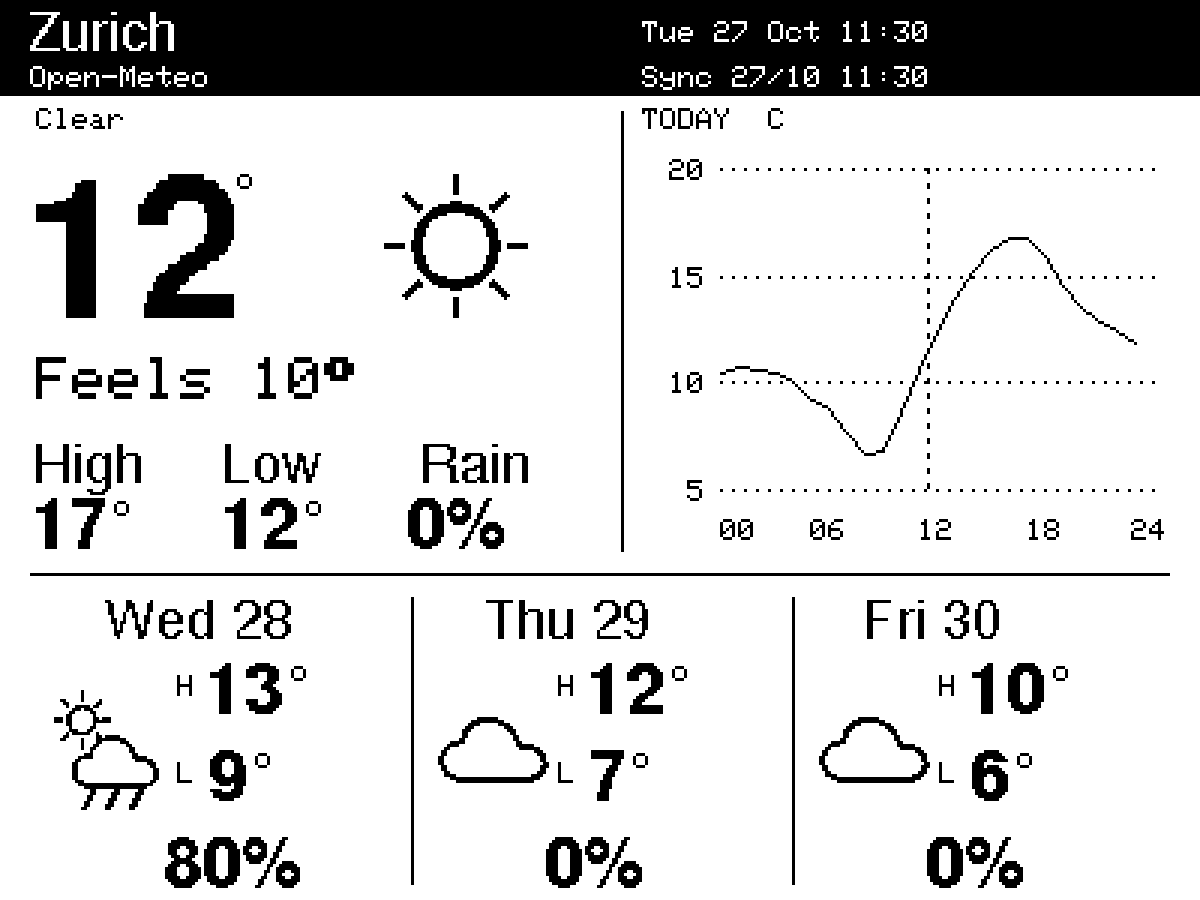
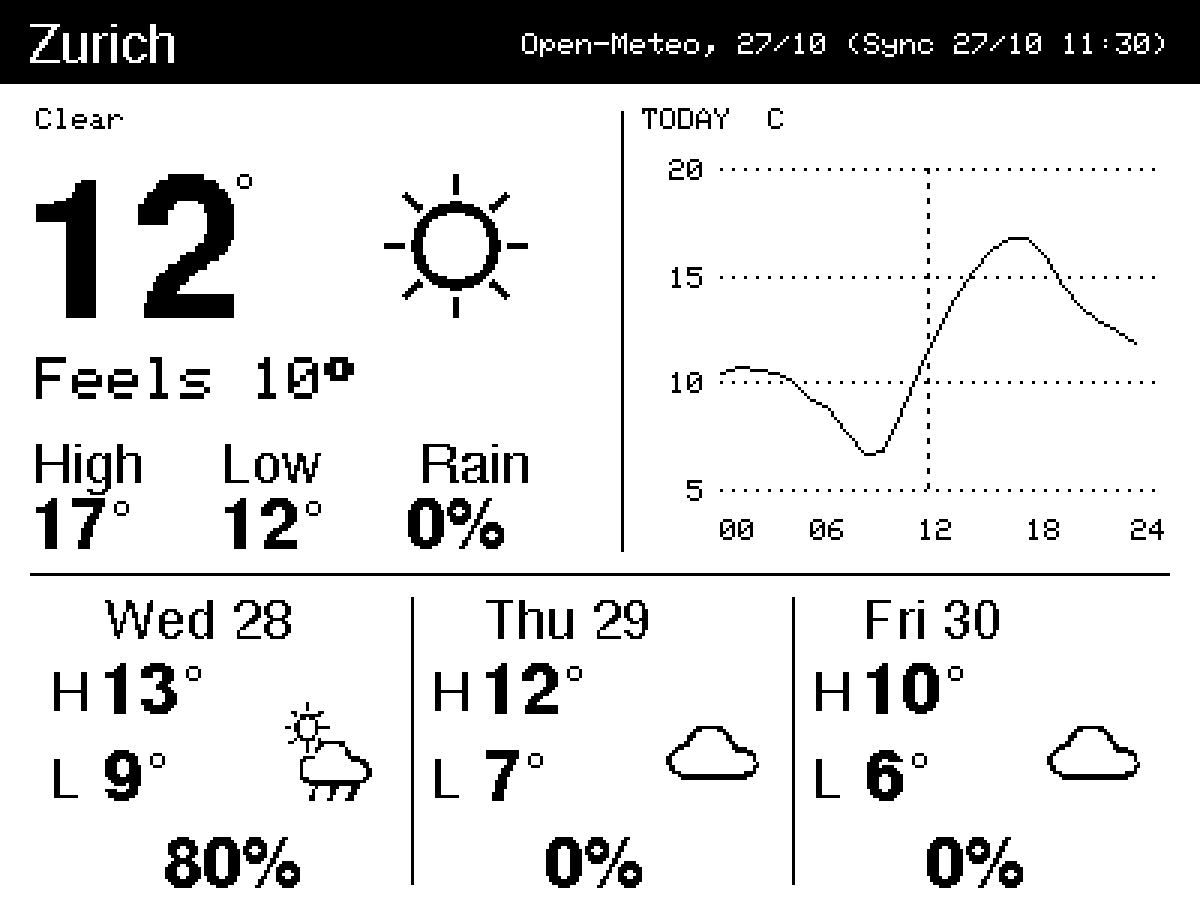
Apply approved Large three option B and single-line header
Place enlarged H/L labels and forecast temperatures left, with weather icons right. Show location left and provider/current date/successful sync date-time right in one header line, without the current clock. Preserve update/stale/error feedback beneath Feels.

Update requirements, user stories and actual-renderer previews. Green firmware build and native checks pass; long location, error status, negative temperature and 100% rain renders reviewed.

diff --git a/src/screen.cpp b/src/screen.cpp
@@ -221,17 +221,20 @@ void Screen::largeValue(int x, int y, float n, bool degree) {
     frame.drawCircle(x + width + 5, y + 3, 2, 1);
 }
 void Screen::largeHome(const Config &c, const Weather &w, const UI &ui, int64_t now) {
-  // Two header rows replace the footer; last sync changes only after success.
-  frame.fillRect(0, 0, 400, 32, 1);
-  readable(10, 4, c.label, false, true, 165);
-  text(214, 7, localTime(now, "%a %d %b %H:%M"), 1, true, 181);
+  // One header line: location left, provider/date and successful sync right.
+  frame.fillRect(0, 0, 400, 28, 1);
+  const std::string info = "Open-Meteo, " + localTime(now, "%d/%m") + " (Sync " +
+                           localTime(w.fetched, "%d/%m %H:%M") + ")";
+  const int infoX = 390 - int(info.size()) * 6;
+  readable(10, 8, c.label, false, true, infoX - 22);
+  text(infoX, 11, info, 1, true, 390 - infoX);
   std::string status = ui.busy ? "Updating" : ui.message;
   if (status.empty() && now - w.fetched > 2 * Hour)
     status = "STALE";
-  text(10, 22, status.empty() ? "Open-Meteo" : status, 1, true, 180);
-  text(214, 22, "Sync " + localTime(w.fetched, "%d/%m %H:%M"), 1, true, 181);
   hero(w);
   text(12, 119, "Feels " + value(w.feels, true), 2, false, 126);
+  if (!status.empty())
+    text(12, 137, status, 1, false, 186);
   auto day = today(w, now);
   readable(12, 148, "High");
   readable(75, 148, "Low");
@@ -259,11 +262,17 @@ void Screen::largeHome(const Config &c, const Weather &w, const UI &ui, int64_t 
     const auto label = localTime(mktime(&date), "%a %d");
     readable(x + 25, 200, label, false, false, 100);
     auto asset = findIcon(weatherIcon(d.code));
-    frame.drawBitmap(x + 3, 228, asset->largeForecast, 48, 48, 1);
-    text(x + 49, 225, "H");
-    largeValue(x + 60, 221, d.high, true);
-    text(x + 49, 254, "L");
-    largeValue(x + 60, 250, d.low, true);
+    // Option B: temperatures on the left, condition icon on the right.
+    for (int yy = 0; yy < 40; ++yy)
+      for (int xx = 0; xx < 40; ++xx) {
+        int sx = xx * 48 / 40, sy = yy * 48 / 40;
+        if (pgm_read_byte(asset->largeForecast + sy * 6 + sx / 8) & (0x80 >> (sx % 8)))
+          frame.drawPixel(x + 80 + xx, 232 + yy, 1);
+      }
+    readable(x + 8, 224, "H", false, false, 24);
+    largeValue(x + 25, 221, d.high, true);
+    readable(x + 8, 253, "L", false, false, 24);
+    largeValue(x + 25, 250, d.low, true);
     readable(x + 45, 279, value(d.probability) + "%", true, false, 76);
   }
 }

diff --git a/tests/render_test.cpp b/tests/render_test.cpp
@@ -46,6 +46,18 @@ int main(int argc, char **argv) {
     out << "P4\n400 300\n";
     out.write((const char *)screen.buffer(), 15000);
   }
+  // Header must reserve space for provider/date/sync with a long location.
+  ui.view = cpw::View::Home;
+  config.label = "Long location name near the weather board";
+  ui.message = "HTTPS / DNS / certificate connection failed";
+  screen.draw(config, &weather, ui, weather.currentTime + 3 * cpw::Hour);
+  {
+    std::ofstream out("tests/build/large-3-header-status.pbm", std::ios::binary);
+    out << "P4\n400 300\n";
+    out.write((const char *)screen.buffer(), 15000);
+  }
+  config.label = "Zurich";
+  ui.message.clear();
   // Extreme temperatures must fit the hero region without changing icon proportions.
   weather.current = -42;
   ui.view = cpw::View::Home;

diff --git a/requirements.md b/requirements.md
@@ -43,7 +43,7 @@ At one combined request per scheduled update, a 60-minute interval means 24 norm
 | R13 | Load/save configuration and cache using microSD; use an internal last-known-good copy so an absent card after successful setup does not stop operation. First startup without valid configuration gives a setup message. No hot-swap requirement. |
 | R14 | Menu, Exit and the up/down/press switch provide all ordinary interaction. Boot and Reset retain their hardware roles. No keyboard-style credential entry on the display. |
 | R15 | Support explicit USB and battery operating profiles; USB remains responsive, battery profile sleeps between updates. Wake and button responsiveness during sleep require verification on the actual board before being promised. |
-| R16 | Offer Classic three, Classic five and Large three on the 400×300 panel. Keep the black header, equal visible heights for current temperature and condition symbol, and today's dotted 5°C curve. All three show feels-like, High, Low, today's Rain %, provider attribution and freshness status; Classic layouts also show UV max. Large three replaces UV with Rain, enlarges today's key values and three forecast tiles, removes the footer, and shows sync/status in the header. Move its forecast high/low readings slightly left for balanced column margins. All three omit the selection underline beneath forecast tiles. A failed fetch must not advance the sync timestamp. Classic layouts retain their footer. Verify fit and readability on the panel. |
+| R16 | Offer Classic three, Classic five and Large three on the 400×300 panel. Keep the black header, equal visible heights for current temperature and condition symbol, and today's dotted 5°C curve. All three show feels-like, High, Low, today's Rain %, provider attribution and freshness status; Classic layouts also show UV max. Large three uses approved option B: larger H/L labels and values left, condition icons right. It replaces UV with Rain and has no footer. Its single-line header has left-aligned location and right-aligned Open-Meteo, current date and parenthesized sync date/time; omit the current clock. Update/stale/error messages sit beneath Feels. All three omit forecast selection underlines. Failed fetches retain the successful sync timestamp. Classic layouts retain their footer. |
 
 ### Proposed configuration contract
 
@@ -81,7 +81,7 @@ Open-Meteo field plan: current `temperature_2m`, `apparent_temperature`, `weathe
 
 ## Screen and controls
 
-Selected layouts: Classic three, Classic five and Large three at 400×300. All use a black header, equally tall current temperature/symbol, today's curve and Rain %. Classic layouts retain UV max and a footer. Large three enlarges High/Low/Rain and forecast text, replaces UV with Rain, and moves sync/status to the header with no footer. Forecast tiles have no underline. Classic five remains the default. Optional wind/sun information uses details so the dashboard stays readable.
+Selected layouts: Classic three, Classic five and Large three at 400×300. All use a black header, equally tall current temperature/symbol, today's curve and Rain %. Classic layouts retain UV max and a footer. Large three uses approved option B with temperatures/larger H/L labels left and icons right. Its single header line shows location left and provider/current date/sync date-time right, with no current clock or footer. Rain replaces UV; status messages appear under Feels. Forecast tiles have no underline. Classic five remains the default.
 
 | Control | Proposed behavior |
 | --- | --- |

diff --git a/user-stories.md b/user-stories.md
@@ -21,7 +21,7 @@ Must = first version; Optional = enhancement. Initial firmware is included; thes
 | US14 | Must | As a user, I want the device to recover from internet outages so I do not have to restart it. | Bounded retries/backoff; last good data retained; a later valid response restores normal status; rate-limit and malformed-response cases do not crash or loop rapidly. | R03, R11, R12 |
 | US15 | Must | As a user, I want to use microSD for setup and keep working after successful setup if the card is absent. | Startup validates files; internal last-known-good config/cache is usable without the card; first boot without config gives instructions; interrupted saves do not destroy the only usable copy. | R13 |
 | US16 | Must | As a user, I want USB and battery profiles so I can use the display on a desk or away from a socket. | USB profile supports ordinary interaction; battery profile wakes on schedule and sleeps after updates; actual wake/control and handover behavior is verified and documented before release. | R15 |
-| US17 | Must | As a user, I want a readable dashboard on the 400×300 display so I can understand the forecast quickly. | All three layouts fit without clipping, preserve the black header, equally tall current numerals/symbol and today's curve. Large three uses larger key values and forecast text, has no footer, and shows last successful sync in the header with provider and update/stale/error status. Failed updates retain the previous successful timestamp. Classic three/five keep their footer. | R04–R08, R16 |
+| US17 | Must | As a user, I want a readable dashboard on the 400×300 display so I can understand the forecast quickly. | Large three uses approved option B: enlarged H/L labels and temperatures left, icons right, no footer. Its single-line black header shows location left and provider, current date and sync date/time right; current clock is omitted and status appears under Feels. Long location names must not overlap sync information. Failed updates retain the successful timestamp. All layouts preserve equally tall current numerals/symbol and today's curve; Classic views keep their footer. | R04–R08, R16 |
 
 ## Release acceptance scenarios
 

diff --git a/README.md b/README.md
@@ -112,7 +112,7 @@ It saves the validated setup internally and writes alternate forecast cache slot
 
 Select **Menu → Forecast view → Classic three / Classic five / Large three → press**. Up/down cycles the three options and Exit cancels. The confirmed choice survives restart and redraws cached data without fetching again or resetting the hourly schedule. Menus return home after 30 seconds of inactivity.
 
-**Large three** enlarges today's High, Low and Rain readings and the three forecast tiles. Rain replaces UV in the third summary column; UV remains on Classic three/five. Large three has no footer: the black header shows the last successful sync, provider and update/stale/error status. Classic three/five retain their footer. Every layout includes today's Rain percentage, and its outlook starts tomorrow, reserving each consecutive local date even when weather data is missing. Forecast tiles have no selection underline; use up/down to choose a day, then press to open its dated details.
+**Large three** uses the approved option B: larger H/L labels and temperatures on the left of each forecast tile, with its weather icon on the right. Today's enlarged High, Low and Rain values remain above; Rain replaces UV, which remains on Classic three/five. The single-line black header shows location left and `Open-Meteo, DD/MM (Sync DD/MM HH:MM)` right. There is no current clock or footer; sync time advances only on success. Update/stale/error messages appear beneath Feels. Classic three/five retain their footer. Every outlook starts tomorrow and reserves consecutive local dates, even when data is missing. Tiles have no underline; up/down chooses a day and press opens its dated details.
 
 Existing `forecast_days: 3` or `5` settings remain supported. An optional `forecast_view` of `"classic_three"`, `"classic_five"` or `"large_three"` selects a specific layout and takes precedence over a valid `forecast_days`. For example, `{"forecast_view":"large_three","power_profile":"usb"}` selects Large three. Saved menu choices still take precedence until **Reload configuration** is selected.
 
